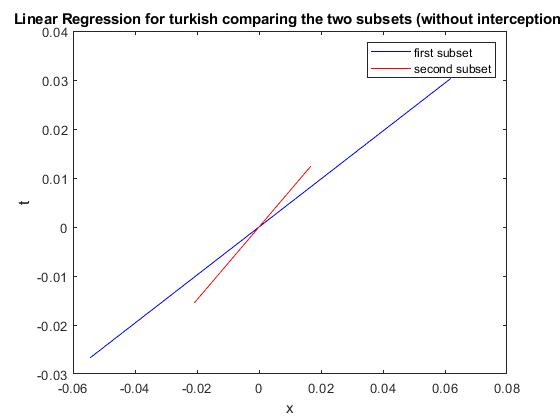
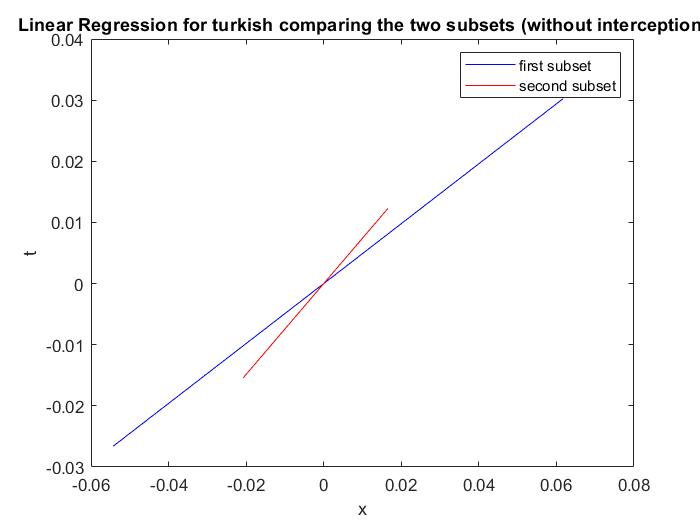
sss

diff --git a/Assignment2/objective_5.m b/Assignment2/objective_5.m
@@ -22,7 +22,7 @@ y1 = w1 * x1 ;
 
 %regression with interception (point 2.3)
 
-set2_new =[ set2(:,2) set2(:,1)] ;
+set2_new =[ set2(:,4) set2(:,1)] ;
 
 [w2,x2]= oneDimRegression(set2_new,1);
 y2 = w2(2)*x2+w2(1);

diff --git a/Assignment2/objective_95.m b/Assignment2/objective_95.m
@@ -22,7 +22,7 @@ y1 = w1 * x1 ;
 % title(str)
 
 
-set2_new =[ set2(:,2) set2(:,1)] ;
+set2_new =[ set2(:,4) set2(:,1)] ;
 x2 = set2_new(:,1);
 y2 = w2(2)*x2+w2(1);
 
